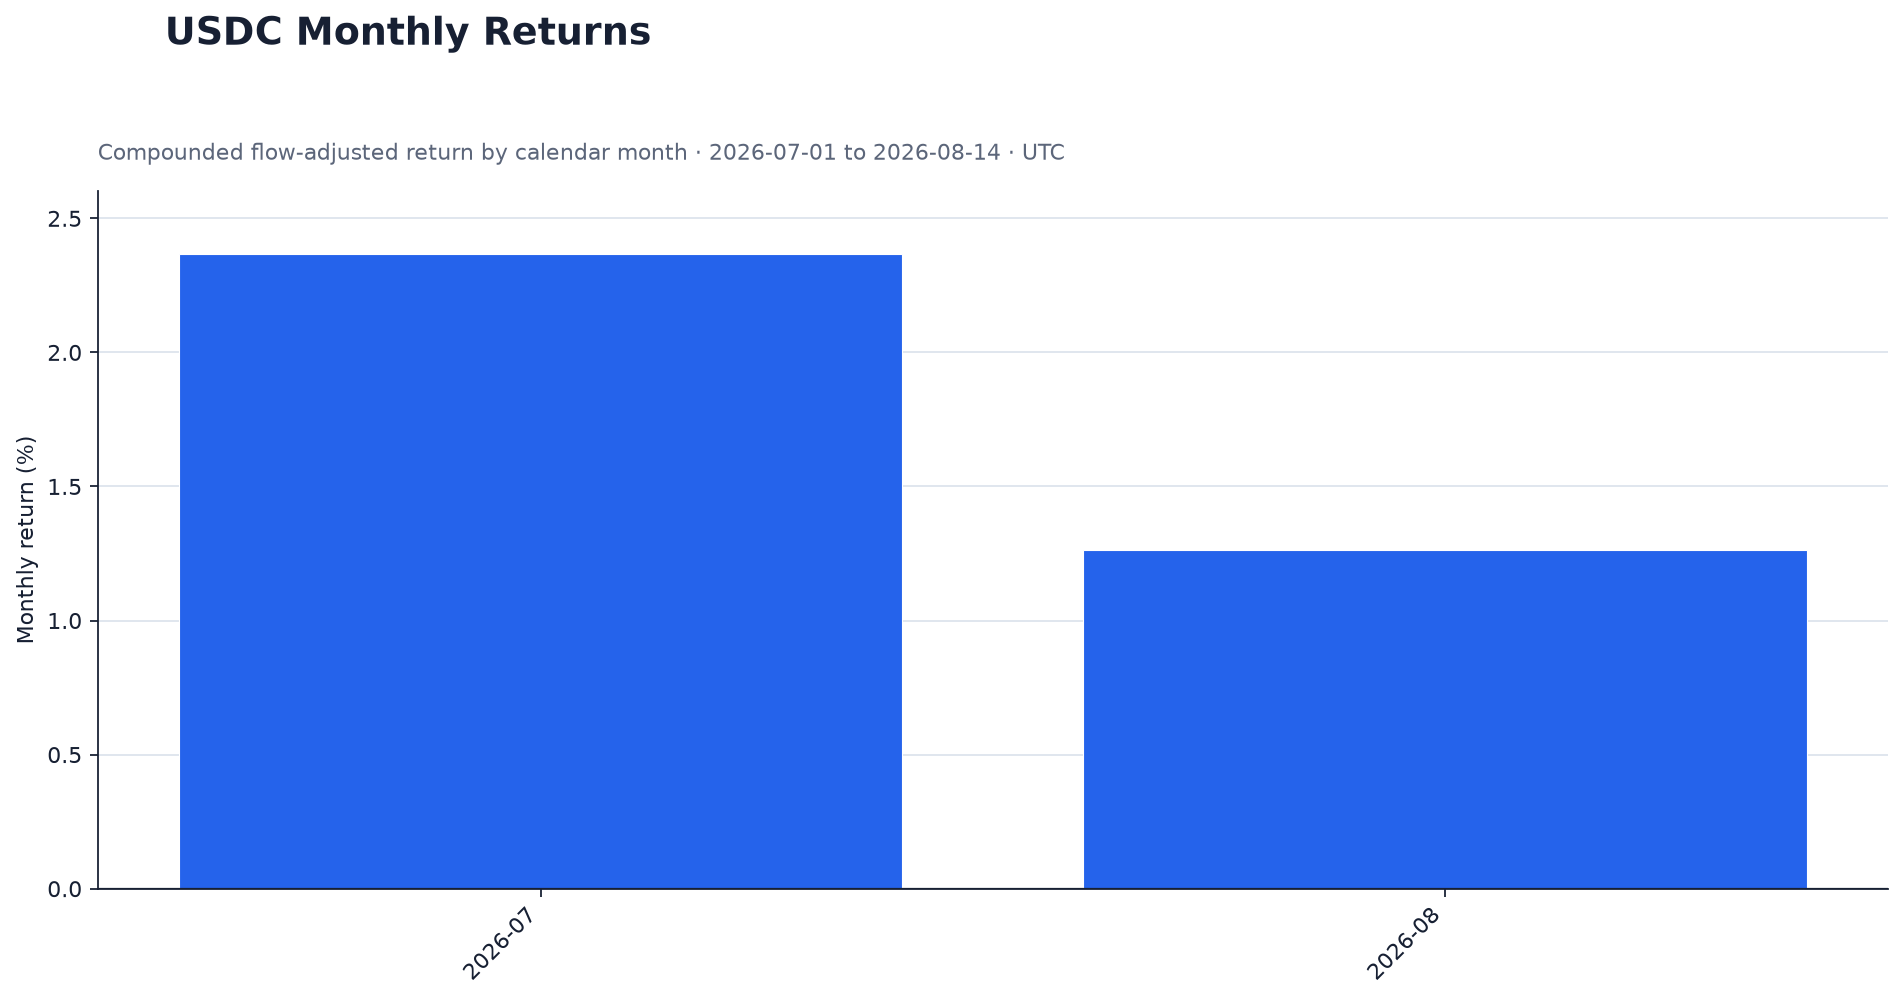
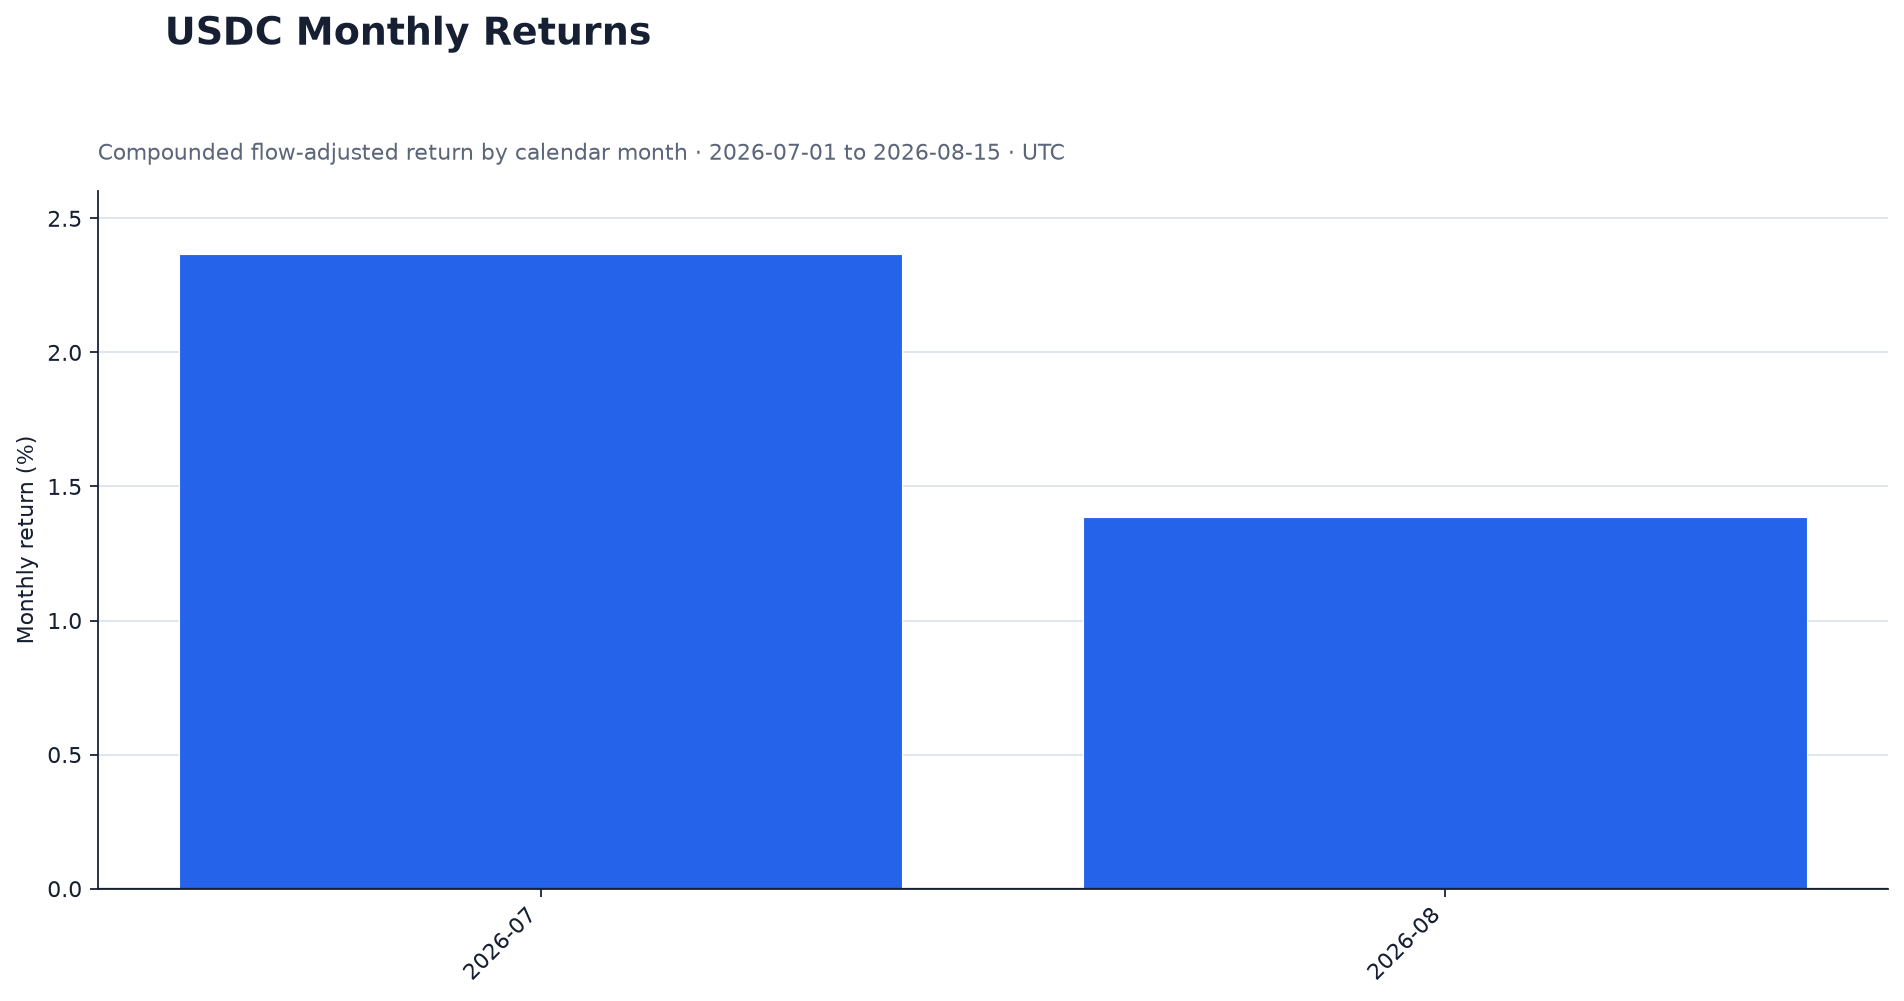
chore: update USDC performance

Changed region(s): [[0.5578, 0.4955, 0.9606, 0.5574]]

diff --git a/reports/performance_summary.md b/reports/performance_summary.md
@@ -1,7 +1,7 @@
 # Performance Summary
 
-Generated at: **2026-08-14T00:10:08Z**<br>
-Coverage: **2026-07-01 to 2026-08-14 (UTC)**<br>
+Generated at: **2026-08-15T00:10:07Z**<br>
+Coverage: **2026-07-01 to 2026-08-15 (UTC)**<br>
 Scope: **Daily USDC USD-M Futures realized performance**
 
 Absolute account values are not published. USD-M Futures transfers are excluded from trading return.
@@ -9,29 +9,30 @@ Sharpe and Sortino use private total daily returns including unrealized PnL; unr
 
 | Metric | Value |
 |---|---:|
-| Cumulative Return | 3.66% |
+| Cumulative Return | 3.78% |
 | Latest Daily Return | 0.00% |
-| Annualized Return | 33.83% |
-| Annualized Volatility | 1.32% |
-| Sharpe Ratio | 5.950726 |
-| Sortino Ratio | 10.666612 |
+| Annualized Return | 37.06% |
+| Annualized Volatility | 1.29% |
+| Sharpe Ratio | 6.283070 |
+| Sortino Ratio | 11.254884 |
 | Maximum Drawdown | -0.01% |
-| Calmar Ratio | 3704.219318 |
-| Win Rate | 97.30% |
-| Profit Factor | 1485.483905 |
-| Total Realized Pnl Usdc | 161.005499 |
+| Calmar Ratio | 4056.982186 |
+| Win Rate | 97.37% |
+| Profit Factor | 1536.827400 |
+| Total Realized Pnl Usdc | 166.657999 |
 | Total Commission Usdc | -0.075227 |
-| Total Funding Fee Usdc | 1.698414 |
-| Total Net Pnl Usdc | 162.628685 |
-| Number Of Trading Days | 37 |
-| Number Of Trades | 1146 |
-| Valid Return Days | 45 |
-| Excluded Return Days | 0 |
+| Total Funding Fee Usdc | 1.670714 |
+| Total Net Pnl Usdc | 168.253485 |
+| Number Of Trading Days | 38 |
+| Number Of Trades | 1179 |
+| Valid Return Days | 43 |
+| Excluded Return Days | 3 |
 | Annualization Factor | 365 |
 
 ## Warnings and coverage notes
 
 - Non-performance income types were treated as capital adjustments: COIN_SWAP_DEPOSIT
+- 3 day(s) were excluded from ratios because the reconstructed capital base was invalid.
 - Sharpe and Sortino include unrealized PnL and begin on 2026-07-06 because earlier official equity snapshots are unavailable.
 
 ## Definitions
